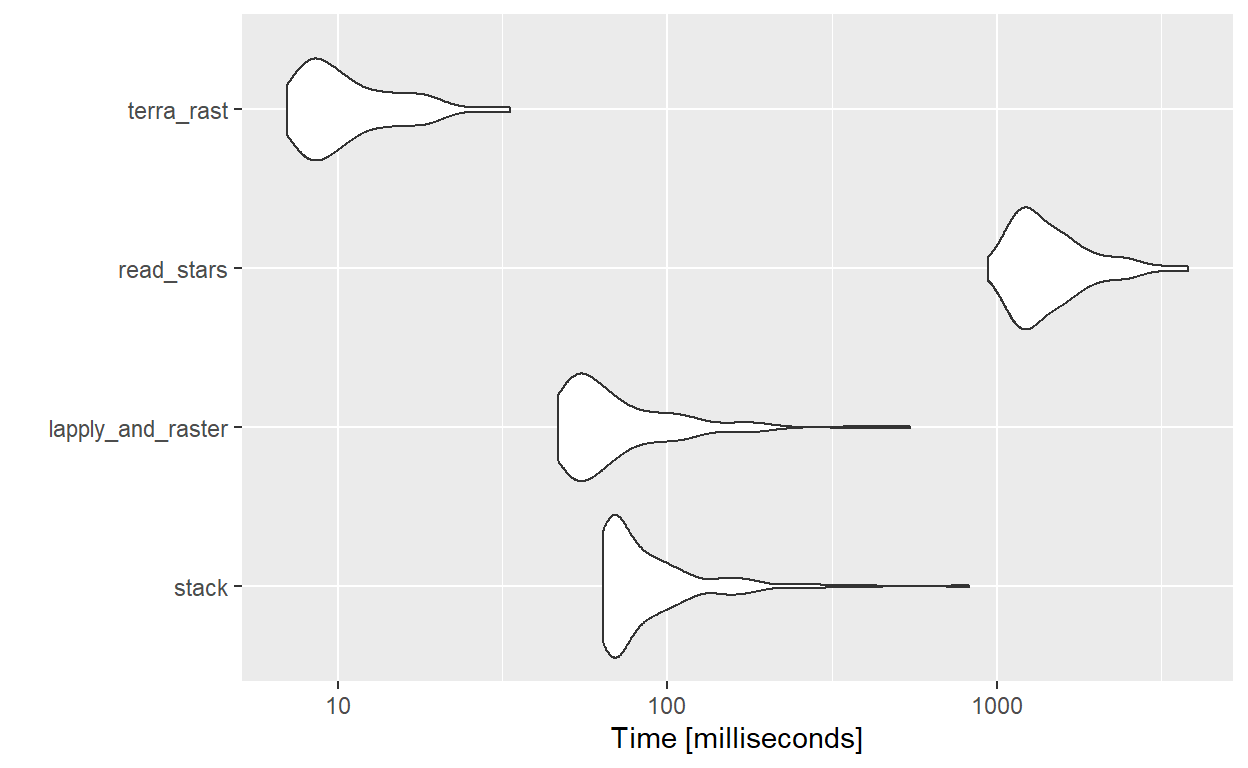
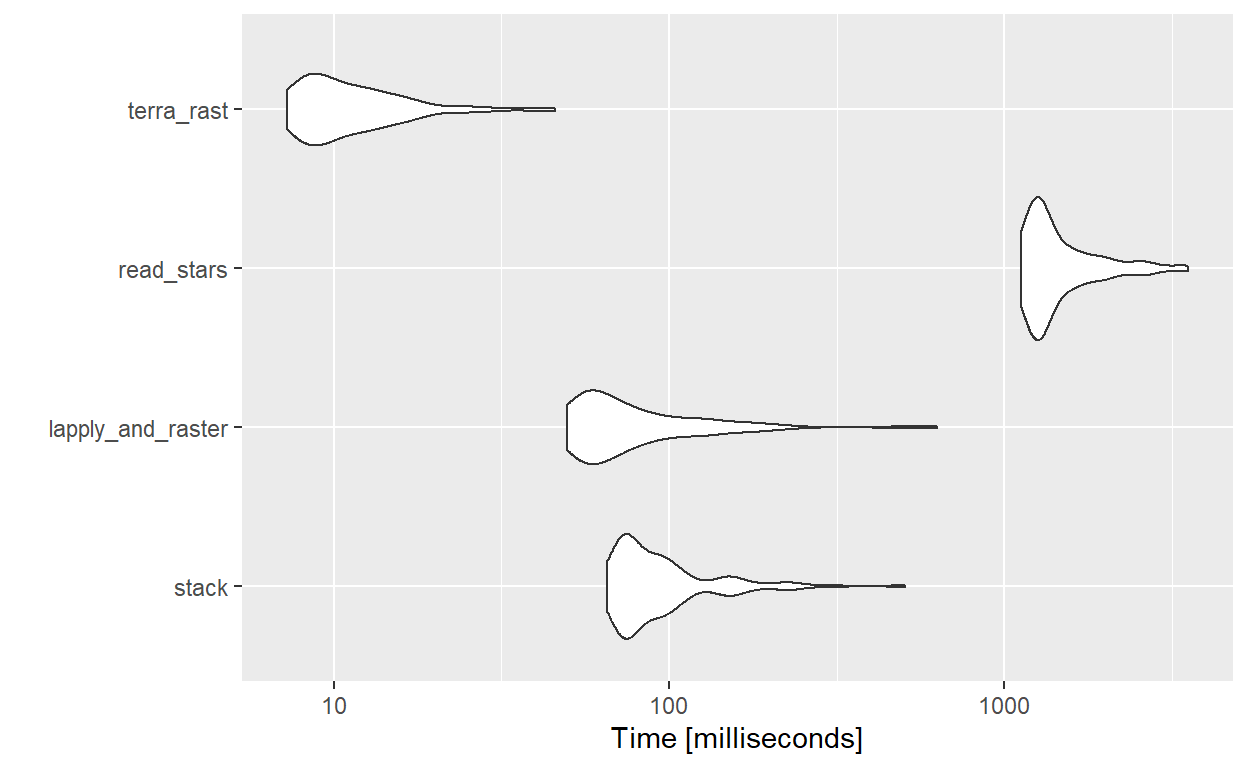
Completed conclusion paragraph and updated working titles and code folding.

diff --git a/_posts/2021-08-12-reading-in-multiple-raster-performance/reading-in-multiple-raster-performance.html b/_posts/2021-08-12-reading-in-multiple-raster-performance/reading-in-multiple-raster-performance.html
@@ -109,7 +109,7 @@ code span.wa { color: #5e5e5e; font-style: italic; } /* Warning */
   <!--radix_placeholder_rmarkdown_metadata-->
   
   <script type="text/json" id="radix-rmarkdown-metadata">
-  {"type":"list","attributes":{"names":{"type":"character","attributes":{},"value":["title","description","draft","author","date","output","categories"]}},"value":[{"type":"character","attributes":{},"value":["Reading in multiple raster performance."]},{"type":"character","attributes":{},"value":["This is a short blog post where I test the performance of different methods to read in multiple rasters.\n"]},{"type":"logical","attributes":{},"value":[true]},{"type":"list","attributes":{},"value":[{"type":"list","attributes":{"names":{"type":"character","attributes":{},"value":["name","url"]}},"value":[{"type":"character","attributes":{},"value":["Thomas Zwagerman"]},{"type":"character","attributes":{},"value":["https://twitter.com/thomzwa"]}]}]},{"type":"character","attributes":{},"value":["08-12-2021"]},{"type":"list","attributes":{"names":{"type":"character","attributes":{},"value":["distill::distill_article"]}},"value":[{"type":"list","attributes":{"names":{"type":"character","attributes":{},"value":["self_contained","toc"]}},"value":[{"type":"logical","attributes":{},"value":[false]},{"type":"logical","attributes":{},"value":[true]}]}]},{"type":"character","attributes":{},"value":["rspatial","raster","terra","benchmark"]}]}
+  {"type":"list","attributes":{"names":{"type":"character","attributes":{},"value":["title","description","draft","author","date","output","categories"]}},"value":[{"type":"character","attributes":{},"value":["Reading in multiple raster performance."]},{"type":"character","attributes":{},"value":["This is a short blog post where I test the performance of different methods to read in multiple rasters.\n"]},{"type":"logical","attributes":{},"value":[true]},{"type":"list","attributes":{},"value":[{"type":"list","attributes":{"names":{"type":"character","attributes":{},"value":["name","url","affiliation","affiliation_url"]}},"value":[{"type":"character","attributes":{},"value":["Thomas Zwagerman"]},{"type":"character","attributes":{},"value":["https://twitter.com/thomzwa"]},{"type":"character","attributes":{},"value":["Centre for Ecology & Hydrology"]},{"type":"character","attributes":{},"value":["https://www.ceh.ac.uk/"]}]}]},{"type":"character","attributes":{},"value":["08-12-2021"]},{"type":"list","attributes":{"names":{"type":"character","attributes":{},"value":["distill::distill_article"]}},"value":[{"type":"list","attributes":{"names":{"type":"character","attributes":{},"value":["self_contained","code_folding","toc"]}},"value":[{"type":"logical","attributes":{},"value":[false]},{"type":"logical","attributes":{},"value":[true]},{"type":"logical","attributes":{},"value":[true]}]}]},{"type":"character","attributes":{},"value":["rspatial","raster","terra","benchmark"]}]}
   </script>
   <!--/radix_placeholder_rmarkdown_metadata-->
   
@@ -1452,7 +1452,7 @@ code span.wa { color: #5e5e5e; font-style: italic; } /* Warning */
 <!--radix_placeholder_front_matter-->
 
 <script id="distill-front-matter" type="text/json">
-{"title":"Reading in multiple raster performance.","description":"This is a short blog post where I test the performance of different methods to read in multiple rasters.","authors":[{"author":"Thomas Zwagerman","authorURL":"https://twitter.com/thomzwa","affiliation":"&nbsp;","affiliationURL":"#","orcidID":""}],"publishedDate":"2021-08-12T00:00:00.000+01:00","citationText":"Zwagerman, 2021"}
+{"title":"Reading in multiple raster performance.","description":"This is a short blog post where I test the performance of different methods to read in multiple rasters.","authors":[{"author":"Thomas Zwagerman","authorURL":"https://twitter.com/thomzwa","affiliation":"Centre for Ecology & Hydrology","affiliationURL":"https://www.ceh.ac.uk/","orcidID":""}],"publishedDate":"2021-08-12T00:00:00.000+01:00","citationText":"Zwagerman, 2021"}
 </script>
 
 <!--/radix_placeholder_front_matter-->
@@ -1475,7 +1475,7 @@ code span.wa { color: #5e5e5e; font-style: italic; } /* Warning */
 </div>
 
 <div class="d-byline">
-  Thomas Zwagerman <a href="https://twitter.com/thomzwa" class="uri">https://twitter.com/thomzwa</a> 
+  Thomas Zwagerman <a href="https://twitter.com/thomzwa" class="uri">https://twitter.com/thomzwa</a> (Centre for Ecology &amp; Hydrology)<a href="https://www.ceh.ac.uk/" class="uri">https://www.ceh.ac.uk/</a>
   
 <br/>08-12-2021
 </div>
@@ -1485,27 +1485,54 @@ code span.wa { color: #5e5e5e; font-style: italic; } /* Warning */
 <nav class="l-text toc figcaption" id="TOC">
 <h3>Contents</h3>
 <ul>
-<li><a href="#efficiency">Efficiency</a></li>
-<li><a href="#a-look-at-the-files-to-process">A look at the files to process</a></li>
+<li><a href="#a-need-for-efficiency">A need for efficiency</a></li>
+<li><a href="#processing-raster-files">Processing raster files</a></li>
 <li><a href="#the-4-methods">The 4 methods</a></li>
 <li><a href="#running-the-benchmark">Running the benchmark</a></li>
+<li><a href="#in-summary">In summary</a></li>
 </ul>
 </nav>
 </div>
 <div class="layout-chunk" data-layout="l-body">
+<div class="sourceCode">
+<pre class="sourceCode r"><code class="sourceCode r"><span class='fu'>knitr</span><span class='fu'>::</span><span class='fu'><a href='https://rdrr.io/pkg/knitr/man/include_graphics.html'>include_graphics</a></span><span class='op'>(</span><span class='st'>"preview.jpg"</span><span class='op'>)</span>
+</code></pre>
+</div>
 <p><img src="preview.jpg" width="1424" /></p>
 </div>
 <aside>
 Photo by <a href="https://unsplash.com/@oskaryil?utm_source=unsplash&utm_medium=referral&utm_content=creditCopyText">Oskar Yildiz</a> on <a href="https://unsplash.com/s/photos/programming?utm_source=unsplash&utm_medium=referral&utm_content=creditCopyText">Unsplash</a>
 </aside>
-<h1 id="efficiency">Efficiency</h1>
+<h1 id="a-need-for-efficiency">A need for efficiency</h1>
 <p>I’ve recently been working on a project where lots of rasters would need to be processed, put together into a dataframe and then combined with other spatial data. That combined dataset would then need to be processed and written out again.</p>
 <p>In other words, a pretty long workflow - which can be quite prone to error. Having to do re-runs of such a lengthy process is not only annoying but also extremely time consuming.</p>
 <p>For that reason I thought I’d test some different ways of processing rasters, so that at least the upfront processing time for each re-run is minimised.</p>
-<p>Let’s get started with the method I used in my project, and then we’ll try some improvements from there!</p>
-<h1 id="a-look-at-the-files-to-process">A look at the files to process</h1>
+<p>Let’s get started with the method I used in my project, and then we’ll try some improvements from there.</p>
+<h1 id="processing-raster-files">Processing raster files</h1>
 <p>I can’t share the rasters I used for my project, so instead I’m working with a small dataset from the FAO, called <a href="http://www.fao.org/livestock-systems/global-distributions/en/">Gridded Livestock of the World</a>. Pretty much what it says on the tin, with different rasters for each animal type. For example here is the raster for cattle:</p>
 <div class="layout-chunk" data-layout="l-body">
+<details>
+<summary>Show code</summary>
+<div class="sourceCode">
+<pre class="sourceCode r"><code class="sourceCode r"><span class='co'>#Libraries----</span>
+<span class='kw'><a href='https://rdrr.io/r/base/library.html'>library</a></span><span class='op'>(</span><span class='va'><a href='https://tidyverse.tidyverse.org'>tidyverse</a></span><span class='op'>)</span>
+<span class='kw'><a href='https://rdrr.io/r/base/library.html'>library</a></span><span class='op'>(</span><span class='va'><a href='https://rspatial.org/raster'>raster</a></span><span class='op'>)</span>
+<span class='kw'><a href='https://rdrr.io/r/base/library.html'>library</a></span><span class='op'>(</span><span class='va'><a href='https://r-spatial.github.io/sf/'>sf</a></span><span class='op'>)</span>
+<span class='kw'><a href='https://rdrr.io/r/base/library.html'>library</a></span><span class='op'>(</span><span class='va'><a href='https://github.com/joshuaulrich/microbenchmark/'>microbenchmark</a></span><span class='op'>)</span>
+<span class='kw'><a href='https://rdrr.io/r/base/library.html'>library</a></span><span class='op'>(</span><span class='va'><a href='https://r-spatial.github.io/stars/'>stars</a></span><span class='op'>)</span>
+<span class='kw'><a href='https://rdrr.io/r/base/library.html'>library</a></span><span class='op'>(</span><span class='va'><a href='https://ggplot2.tidyverse.org'>ggplot2</a></span><span class='op'>)</span>
+<span class='kw'><a href='https://rdrr.io/r/base/library.html'>library</a></span><span class='op'>(</span><span class='va'><a href='https://yihui.org/knitr/'>knitr</a></span><span class='op'>)</span>
+<span class='kw'><a href='https://rdrr.io/r/base/library.html'>library</a></span><span class='op'>(</span><span class='va'><a href='https://rspatial.org/terra'>terra</a></span><span class='op'>)</span>
+
+<span class='va'>lu_dir</span> <span class='op'>&lt;-</span> <span class='st'>"C:/Users/thowag/Documents/tz_web_distill/_posts/2021-08-12-reading-in-multiple-raster-performance/glw_rasters/"</span>
+<span class='co'>#lu_dir &lt;- "/glw_rasters/"</span>
+<span class='va'>l_files</span> <span class='op'>&lt;-</span> <span class='fu'><a href='https://rdrr.io/r/base/list.files.html'>list.files</a></span><span class='op'>(</span><span class='va'>lu_dir</span>, pattern <span class='op'>=</span> <span class='st'>".tif"</span><span class='op'>)</span>
+<span class='va'>l_files</span> <span class='op'>&lt;-</span> <span class='fu'><a href='https://rdrr.io/r/base/paste.html'>paste0</a></span><span class='op'>(</span><span class='va'>lu_dir</span>,<span class='va'>l_files</span><span class='op'>)</span>
+<span class='va'>p1</span> <span class='op'>&lt;-</span> <span class='fu'><a href='https://rdrr.io/pkg/terra/man/rast.html'>rast</a></span><span class='op'>(</span><span class='va'>l_files</span><span class='op'>[</span><span class='fl'>1</span><span class='op'>]</span><span class='op'>)</span>
+<span class='fu'><a href='https://rdrr.io/pkg/raster/man/plot.html'>plot</a></span><span class='op'>(</span><span class='va'>p1</span><span class='op'>)</span>
+</code></pre>
+</div>
+</details>
 <p><img src="reading-in-multiple-raster-performance_files/figure-html5/directory_numbers-1.png" width="624" /></p>
 </div>
 <p>It’s a good dataset for this purpose as it’s relatively lightweight and I already know all rasters are the same extent. Now let’s have a look at the different methods of reading in multiple raster files.</p>
@@ -1513,7 +1540,7 @@ Photo by <a href="https://unsplash.com/@oskaryil?utm_source=unsplash&utm_medium=
 <p>The first method is the one I used during my project, which is <strong>stack()</strong>. The reason I went for <strong>stack()</strong> is that it’s probably the most concise method of stacking a large number of rasters, because you read the raster files straight into a stack. But… I had a feeling this was maybe taking more time than I’d like.</p>
 <div class="layout-chunk" data-layout="l-body">
 <div class="sourceCode">
-<pre class="sourceCode r"><code class="sourceCode r"><span class='fu'><a href='https://rdrr.io/r/utils/stack.html'>stack</a></span><span class='op'>(</span><span class='va'>l_files</span><span class='op'>)</span>
+<pre class="sourceCode r"><code class="sourceCode r"><span class='fu'><a href='https://rdrr.io/pkg/raster/man/stack.html'>stack</a></span><span class='op'>(</span><span class='va'>l_files</span><span class='op'>)</span>
 </code></pre>
 </div>
 </div>
@@ -1525,7 +1552,7 @@ Photo by <a href="https://unsplash.com/@oskaryil?utm_source=unsplash&utm_medium=
 <span class='co'>#reading the rasters in individually, into a list object</span>
 <span class='va'>l_rasters</span> <span class='op'>&lt;-</span> <span class='fu'><a href='https://rdrr.io/r/base/lapply.html'>lapply</a></span><span class='op'>(</span><span class='va'>files_to_read</span>, <span class='va'>raster</span><span class='op'>)</span>
 <span class='co'>#then stack the read in list object into a single stack</span>
-<span class='va'>s_rasters</span> <span class='op'>&lt;-</span> <span class='fu'><a href='https://rdrr.io/r/utils/stack.html'>stack</a></span><span class='op'>(</span><span class='va'>l_rasters</span><span class='op'>)</span>
+<span class='va'>s_rasters</span> <span class='op'>&lt;-</span> <span class='fu'><a href='https://rdrr.io/pkg/raster/man/stack.html'>stack</a></span><span class='op'>(</span><span class='va'>l_rasters</span><span class='op'>)</span>
 <span class='kw'><a href='https://rdrr.io/r/base/function.html'>return</a></span><span class='op'>(</span><span class='va'>s_rasters</span><span class='op'>)</span>
 <span class='op'>}</span>
 </code></pre>
@@ -1534,20 +1561,37 @@ Photo by <a href="https://unsplash.com/@oskaryil?utm_source=unsplash&utm_medium=
 <p>Another package I’ve been curious about for a while, but haven’t found an excuse to use yet, is <a href="https://r-spatial.github.io/stars/">stars</a> with the <strong>read_stars()</strong> function. Now I have no idea how this works in the background, so I don’t know if this will be faster, but that’s the fun of the experiment.</p>
 <div class="layout-chunk" data-layout="l-body">
 <div class="sourceCode">
-<pre class="sourceCode r"><code class="sourceCode r"><span class='fu'>read_stars</span><span class='op'>(</span><span class='va'>l_files</span><span class='op'>)</span>
+<pre class="sourceCode r"><code class="sourceCode r"><span class='fu'><a href='https://r-spatial.github.io/stars/reference/read_stars.html'>read_stars</a></span><span class='op'>(</span><span class='va'>l_files</span><span class='op'>)</span>
 </code></pre>
 </div>
 </div>
 <p>Another new package is <a href="https://github.com/rspatial/terra">terra</a>, which is inteded to replace raster. Unlike <strong>raster()</strong>, the <strong>rast()</strong> function in terra already reads in multiple rasters, so there’s no need to write a function in combination with <strong>lapply()</strong> as we did for <strong>raster()</strong>.</p>
 <div class="layout-chunk" data-layout="l-body">
 <div class="sourceCode">
-<pre class="sourceCode r"><code class="sourceCode r"><span class='fu'>rast</span><span class='op'>(</span><span class='va'>l_files</span><span class='op'>)</span>
+<pre class="sourceCode r"><code class="sourceCode r"><span class='fu'><a href='https://rdrr.io/pkg/terra/man/rast.html'>rast</a></span><span class='op'>(</span><span class='va'>l_files</span><span class='op'>)</span>
 </code></pre>
 </div>
 </div>
 <h1 id="running-the-benchmark">Running the benchmark</h1>
 <p>Now I’ve given a sample of the 4 methods, let’s run the benchmark and see which is fastest.</p>
 <div class="layout-chunk" data-layout="l-body">
+<details>
+<summary>Show code</summary>
+<div class="sourceCode">
+<pre class="sourceCode r"><code class="sourceCode r"><span class='va'>res</span> <span class='op'>&lt;-</span> <span class='fu'><a href='https://rdrr.io/pkg/microbenchmark/man/microbenchmark.html'>microbenchmark</a></span><span class='op'>(</span>
+  stack <span class='op'>=</span> <span class='fu'><a href='https://rdrr.io/pkg/raster/man/stack.html'>stack</a></span><span class='op'>(</span><span class='va'>l_files</span><span class='op'>[</span><span class='fl'>1</span><span class='op'>:</span><span class='fl'>3</span><span class='op'>]</span><span class='op'>)</span>,
+  lapply_and_raster <span class='op'>=</span> <span class='fu'>func_apply_n_raster</span><span class='op'>(</span><span class='va'>l_files</span><span class='op'>[</span><span class='fl'>1</span><span class='op'>:</span><span class='fl'>3</span><span class='op'>]</span><span class='op'>)</span>,
+  read_stars <span class='op'>=</span> <span class='fu'><a href='https://r-spatial.github.io/stars/reference/read_stars.html'>read_stars</a></span><span class='op'>(</span><span class='va'>l_files</span><span class='op'>[</span><span class='fl'>1</span><span class='op'>:</span><span class='fl'>3</span><span class='op'>]</span><span class='op'>)</span>,
+  terra_rast <span class='op'>=</span> <span class='fu'><a href='https://rdrr.io/pkg/terra/man/rast.html'>rast</a></span><span class='op'>(</span><span class='va'>l_files</span><span class='op'>[</span><span class='fl'>1</span><span class='op'>:</span><span class='fl'>3</span><span class='op'>]</span><span class='op'>)</span>,
+  times <span class='op'>=</span> <span class='fl'>100</span>
+<span class='op'>)</span>
+<span class='co'>#the reason I'm passing a summary() function through to kable is that</span>
+<span class='co'>#kable (or any paged table function) doesn't provide expected output with a microbenchmark output</span>
+<span class='co'>#see this open issue https://github.com/rstudio/rmarkdown/issues/1469</span>
+<span class='fu'><a href='https://rdrr.io/pkg/knitr/man/kable.html'>kable</a></span><span class='op'>(</span><span class='fu'><a href='https://rdrr.io/pkg/terra/man/summary.html'>summary</a></span><span class='op'>(</span><span class='va'>res</span><span class='op'>)</span><span class='op'>)</span>
+</code></pre>
+</div>
+</details>
 <table>
 <thead>
 <tr class="header">
@@ -1564,54 +1608,64 @@ Photo by <a href="https://unsplash.com/@oskaryil?utm_source=unsplash&utm_medium=
 <tbody>
 <tr class="odd">
 <td style="text-align: left;">stack</td>
-<td style="text-align: right;">63.7949</td>
-<td style="text-align: right;">67.68190</td>
-<td style="text-align: right;">100.09439</td>
-<td style="text-align: right;">73.90900</td>
-<td style="text-align: right;">98.75340</td>
-<td style="text-align: right;">824.1519</td>
+<td style="text-align: right;">65.2145</td>
+<td style="text-align: right;">73.91890</td>
+<td style="text-align: right;">102.83470</td>
+<td style="text-align: right;">85.75865</td>
+<td style="text-align: right;">103.44385</td>
+<td style="text-align: right;">507.4893</td>
 <td style="text-align: right;">100</td>
 </tr>
 <tr class="even">
 <td style="text-align: left;">lapply_and_raster</td>
-<td style="text-align: right;">46.6701</td>
-<td style="text-align: right;">52.42865</td>
-<td style="text-align: right;">81.36800</td>
-<td style="text-align: right;">60.58330</td>
-<td style="text-align: right;">83.75530</td>
-<td style="text-align: right;">546.8586</td>
+<td style="text-align: right;">49.7322</td>
+<td style="text-align: right;">56.33820</td>
+<td style="text-align: right;">90.92181</td>
+<td style="text-align: right;">67.51970</td>
+<td style="text-align: right;">94.88970</td>
+<td style="text-align: right;">631.2363</td>
 <td style="text-align: right;">100</td>
 </tr>
 <tr class="odd">
 <td style="text-align: left;">read_stars</td>
-<td style="text-align: right;">944.6924</td>
-<td style="text-align: right;">1174.00130</td>
-<td style="text-align: right;">1510.08288</td>
-<td style="text-align: right;">1315.06065</td>
-<td style="text-align: right;">1677.91355</td>
-<td style="text-align: right;">3805.7289</td>
+<td style="text-align: right;">1122.7334</td>
+<td style="text-align: right;">1226.38700</td>
+<td style="text-align: right;">1516.44712</td>
+<td style="text-align: right;">1309.55045</td>
+<td style="text-align: right;">1612.83625</td>
+<td style="text-align: right;">3531.9822</td>
 <td style="text-align: right;">100</td>
 </tr>
 <tr class="even">
 <td style="text-align: left;">terra_rast</td>
-<td style="text-align: right;">6.9995</td>
-<td style="text-align: right;">8.31710</td>
-<td style="text-align: right;">11.54706</td>
-<td style="text-align: right;">9.57255</td>
-<td style="text-align: right;">13.61855</td>
-<td style="text-align: right;">33.2574</td>
+<td style="text-align: right;">7.2295</td>
+<td style="text-align: right;">8.48755</td>
+<td style="text-align: right;">12.14368</td>
+<td style="text-align: right;">10.04205</td>
+<td style="text-align: right;">13.53075</td>
+<td style="text-align: right;">45.8310</td>
 <td style="text-align: right;">100</td>
 </tr>
 </tbody>
 </table>
 </div>
-<p>The method I used throughout my project’s lifetime, <strong>stack()</strong>, has not come out too well in this test. On average, <strong>read_stars()</strong> is the slowest method, but perhaps reading in multiple rasters wasn’t the purpose it was optimised for specifically. The <strong>lapply(x, raster)</strong> + <strong>stack()</strong> method is a wee bit faster than <strong>stack()</strong> on its own, as I suspected, but terra’s <strong>rast()</strong> knocks both of these out of the park! I think this means it is time for me properly look into terra and start replacing raster in my workflow.</p>
+<p>The method I used throughout my project’s lifetime, <strong>stack()</strong>, has not come out too well in this test. On average, <strong>read_stars()</strong> is the slowest method, but perhaps reading in multiple rasters wasn’t the purpose it was optimised for specifically. The <strong>lapply(x, raster)</strong> + <strong>stack()</strong> method is a wee bit faster than <strong>stack()</strong> on its own, as I suspected, but terra’s <strong>rast()</strong> knocks both of these out of the park. I think this means it is time for me properly look into terra and start replacing raster in my workflow.</p>
 <p>Let’s plot it as well to visualise the range here:</p>
 <div class="layout-chunk" data-layout="l-body">
+<details>
+<summary>Show code</summary>
+<div class="sourceCode">
+<pre class="sourceCode r"><code class="sourceCode r"><span class='fu'><a href='https://ggplot2.tidyverse.org/reference/autoplot.html'>autoplot</a></span><span class='op'>(</span><span class='va'>res</span><span class='op'>)</span>
+</code></pre>
+</div>
+</details>
 <p><img src="reading-in-multiple-raster-performance_files/figure-html5/benchmark_plot-1.png" width="624" /></p>
 </div>
 <p>So <strong>lapply(x, raster)</strong> + <strong>stack()</strong> are definitely faster than <strong>read_stars()</strong> on average. While <strong>stack()</strong> on its own is a wee bit slower than <strong>lapply(x, raster)</strong> + <strong>stack()</strong>, they do mostly overlap. In this case I think it seems to be a tradeoff between more concise code in just <strong>stack()</strong> or a slightly faster processing time calling multiple functions, but the difference is minimal.</p>
 <p>Terra’s <strong>rast()</strong> however, has both. It’s far more concise and much faster. Another benefit seems to be that there is no differentiation between <strong>stack()</strong> and <strong>raster()</strong>, so whether reading in a large folder of rasters or reading in a single raster the user doesn’t have to use a different function.</p>
+<h1 id="in-summary">In summary</h1>
+<p>It’s time to update my scripts and learn to use the terra package, as it’s the most concise and efficient way of reading in multiple raster files at once. It’s also rewarding that after reading <a href="https://csgillespie.github.io/efficientR/programming.html#the-apply-family">Chapter 3 of Efficient R programming</a> I can actually apply some of the lessons in improving efficiency to my own script, and if it wasn’t for <strong>rast()</strong>, using <strong>lapply(x, raster)</strong> + <strong>stack()</strong> instead of just <strong>stack()</strong> my workflow would have also improved.</p>
+<p>In the future I might write another blog post to test different methods of reading in NetCDF files as I frequently use those too, and I’m curious to see how big the differences are there. I’d expect more from stars in that one!</p>
 <div class="sourceCode" id="cb1"><pre class="sourceCode r distill-force-highlighting-css"><code class="sourceCode r"></code></pre></div>
 <!--radix_placeholder_article_footer-->
 <!--/radix_placeholder_article_footer-->
